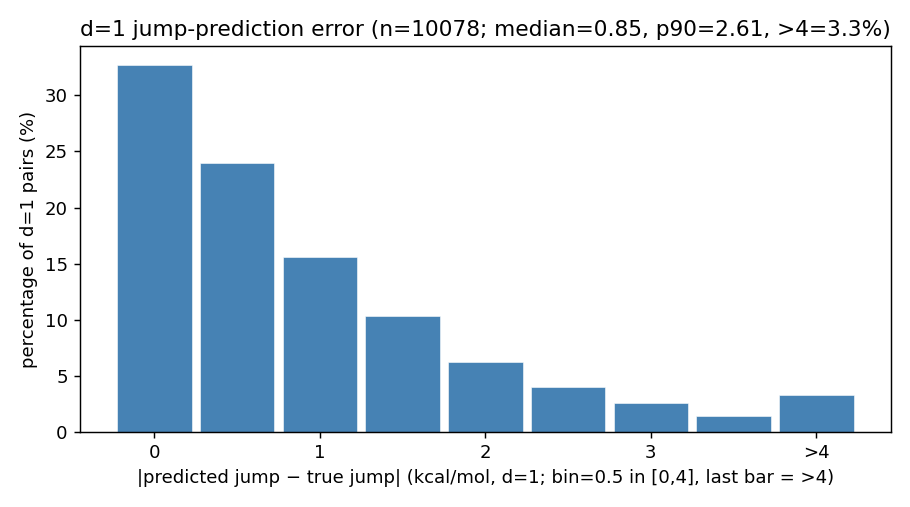
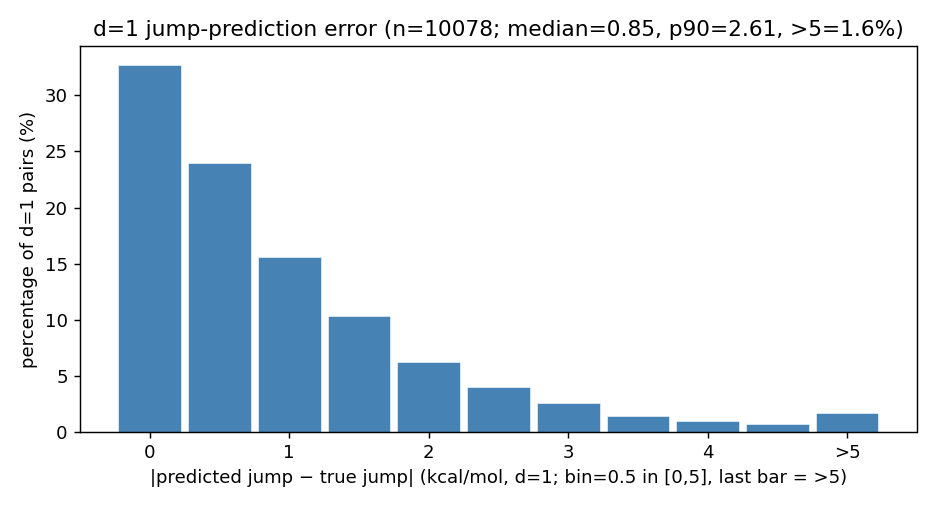
mutation-cliff §4.2: both d=1 figures bins -> [0,5) step 0.5 + >5 (>5 hist 1.6%, sign-flip 75% n=165)

diff --git a/reproduce/mutation_cliff_viz.py b/reproduce/mutation_cliff_viz.py
@@ -229,17 +229,17 @@ print(ext[["PDB","site","d","ddG_A","ddG_B","true_jump","pred_jump","diff_percen
 d1e=P[P.d==1].copy(); d1e["jerr"]=(d1e.pred_jump-d1e.true_jump).abs()
 print(f"\n=== d=1 |pred_jump−true_jump| 分布: n={len(d1e)} range[{d1e.jerr.min():.2f},{d1e.jerr.max():.2f}] "
       f"mean={d1e.jerr.mean():.2f} median={d1e.jerr.median():.2f} p90={d1e.jerr.quantile(.9):.2f} p99={d1e.jerr.quantile(.99):.2f} ===")
-# 分桶:[0,4) step=0.5(8 桶)+ 一个 >4 桶;y 轴为占比(%)
-hedges=[round(0.5*i,1) for i in range(9)]+[1e9]
+# 分桶:[0,5) step=0.5(10 桶)+ 一个 >5 桶;y 轴为占比(%)
+hedges=[round(0.5*i,1) for i in range(11)]+[1e9]
 hcnt=np.histogram(d1e.jerr.values,bins=hedges)[0]
 hpct=100*hcnt/len(d1e)
 hxs=np.arange(len(hpct))
-fig,ax=plt.subplots(figsize=(7.0,3.9))
+fig,ax=plt.subplots(figsize=(7.2,3.9))
 ax.bar(hxs,hpct,width=0.9,color="steelblue",edgecolor="white",linewidth=0.3)
-ax.set_xticks([0,2,4,6,8]); ax.set_xticklabels(["0","1","2","3",">4"])
-ax.set_xlabel("|predicted jump − true jump| (kcal/mol, d=1; bin=0.5 in [0,4], last bar = >4)")
+ax.set_xticks([0,2,4,6,8,10]); ax.set_xticklabels(["0","1","2","3","4",">5"])
+ax.set_xlabel("|predicted jump − true jump| (kcal/mol, d=1; bin=0.5 in [0,5], last bar = >5)")
 ax.set_ylabel("percentage of d=1 pairs (%)")
-ax.set_title(f"d=1 jump-prediction error (n={len(d1e)}; median={d1e.jerr.median():.2f}, p90={d1e.jerr.quantile(.9):.2f}, >4={100*(d1e.jerr>4).mean():.1f}%)")
+ax.set_title(f"d=1 jump-prediction error (n={len(d1e)}; median={d1e.jerr.median():.2f}, p90={d1e.jerr.quantile(.9):.2f}, >5={100*(d1e.jerr>5).mean():.1f}%)")
 fig.tight_layout(); fig.savefig(os.path.join(OUT,"d1_jumperr_hist.png")); plt.close(fig)
 
 # 同一分桶({0~4 by 0.1}∪{>4},按 |pred−true| 误差):每桶内 真值/预测跳变 符号相反的占比
@@ -252,8 +252,8 @@ for i in range(len(flip)):
     if fn[i]: print(f"  {hedges[i]:.1f}{'+' if i==len(flip)-1 else f'–{hedges[i+1]:.1f}'}: n={fn[i]} flip={flip[i]:.0f}%")
 fig,ax=plt.subplots(figsize=(8.6,3.9))
 ax.bar(hxs,flip,width=0.9,color="indianred",edgecolor="white",linewidth=0.3)
-ax.set_xticks([0,2,4,6,8]); ax.set_xticklabels(["0","1","2","3",">4"])
-ax.set_xlabel("|predicted jump − true jump| bin (kcal/mol, d=1; 0.5 in [0,4], last bar = >4)")
+ax.set_xticks([0,2,4,6,8,10]); ax.set_xticklabels(["0","1","2","3","4",">5"])
+ax.set_xlabel("|predicted jump − true jump| bin (kcal/mol, d=1; 0.5 in [0,5], last bar = >5)")
 ax.set_ylabel("% sign-opposite within bin"); ax.set_ylim(0,100)
 ax.set_title(f"d=1: fraction of sign-flipped pairs vs jump-error magnitude (n={len(d1e)})")
 fig.tight_layout(); fig.savefig(os.path.join(OUT,"d1_signflip_by_err.png")); plt.close(fig)

diff --git a/reproduce/RESEARCH_MOTIVATION_mutation_cliff.md b/reproduce/RESEARCH_MOTIVATION_mutation_cliff.md
@@ -139,12 +139,12 @@
 **d=1 全体的预测跳变误差分布**: 在所有 d=1 对(n=10078)上,`|预测跳变 − 真值跳变|` 的范围是 **[0.00, 14.04] kcal/mol**,
 mean 1.19 / median 0.85 / p90 2.61 / p99 5.83;**32.7% 的对 <0.5(预测准),但 17.3% >2、3.3% >4(严重失配)**。
 分布呈**长右尾**——多数 d=1 对预测尚可,但拖着一条粗重的"严重失配"尾巴(即上面"不正常组"那类 cliff)。
-(下图: 误差按 [0,4) 间隔 0.5 分桶、>4 聚成最后一根柱;纵轴为占全部 d=1 对的百分比,故 >4 那根柱即 3.3%。)
+(下图: 误差按 [0,5) 间隔 0.5 分桶、>5 聚成最后一根柱;纵轴为占全部 d=1 对的百分比,故 >5 那根柱仅 1.6%。)
 
 <img src="mutation_analysis/d1_jumperr_hist.png" width="520">
 
 **同一分桶下,每个误差桶内"真值跳变 vs 预测跳变 符号相反"的占比**: 误差越大,符号判反的比例越高——
-从最小误差桶([0,0.5))的 **17%** 升到误差 ~1.5–3 的 **~45–47%**,**>4 误差桶达 59%**(n=329;高误差桶样本少、有抖动)。
+从最小误差桶([0,0.5))的 **17%** 升到误差 ~1.5–3 的 **~45–47%**,**>5 误差桶达 75%**(n=165;高误差桶样本少、有抖动)。
 说明**大误差不只是幅度压扁,相当一部分直接把方向也判反**(误差 >1.5 时已近半数符号相反)。
 
 <img src="mutation_analysis/d1_signflip_by_err.png" width="520">
